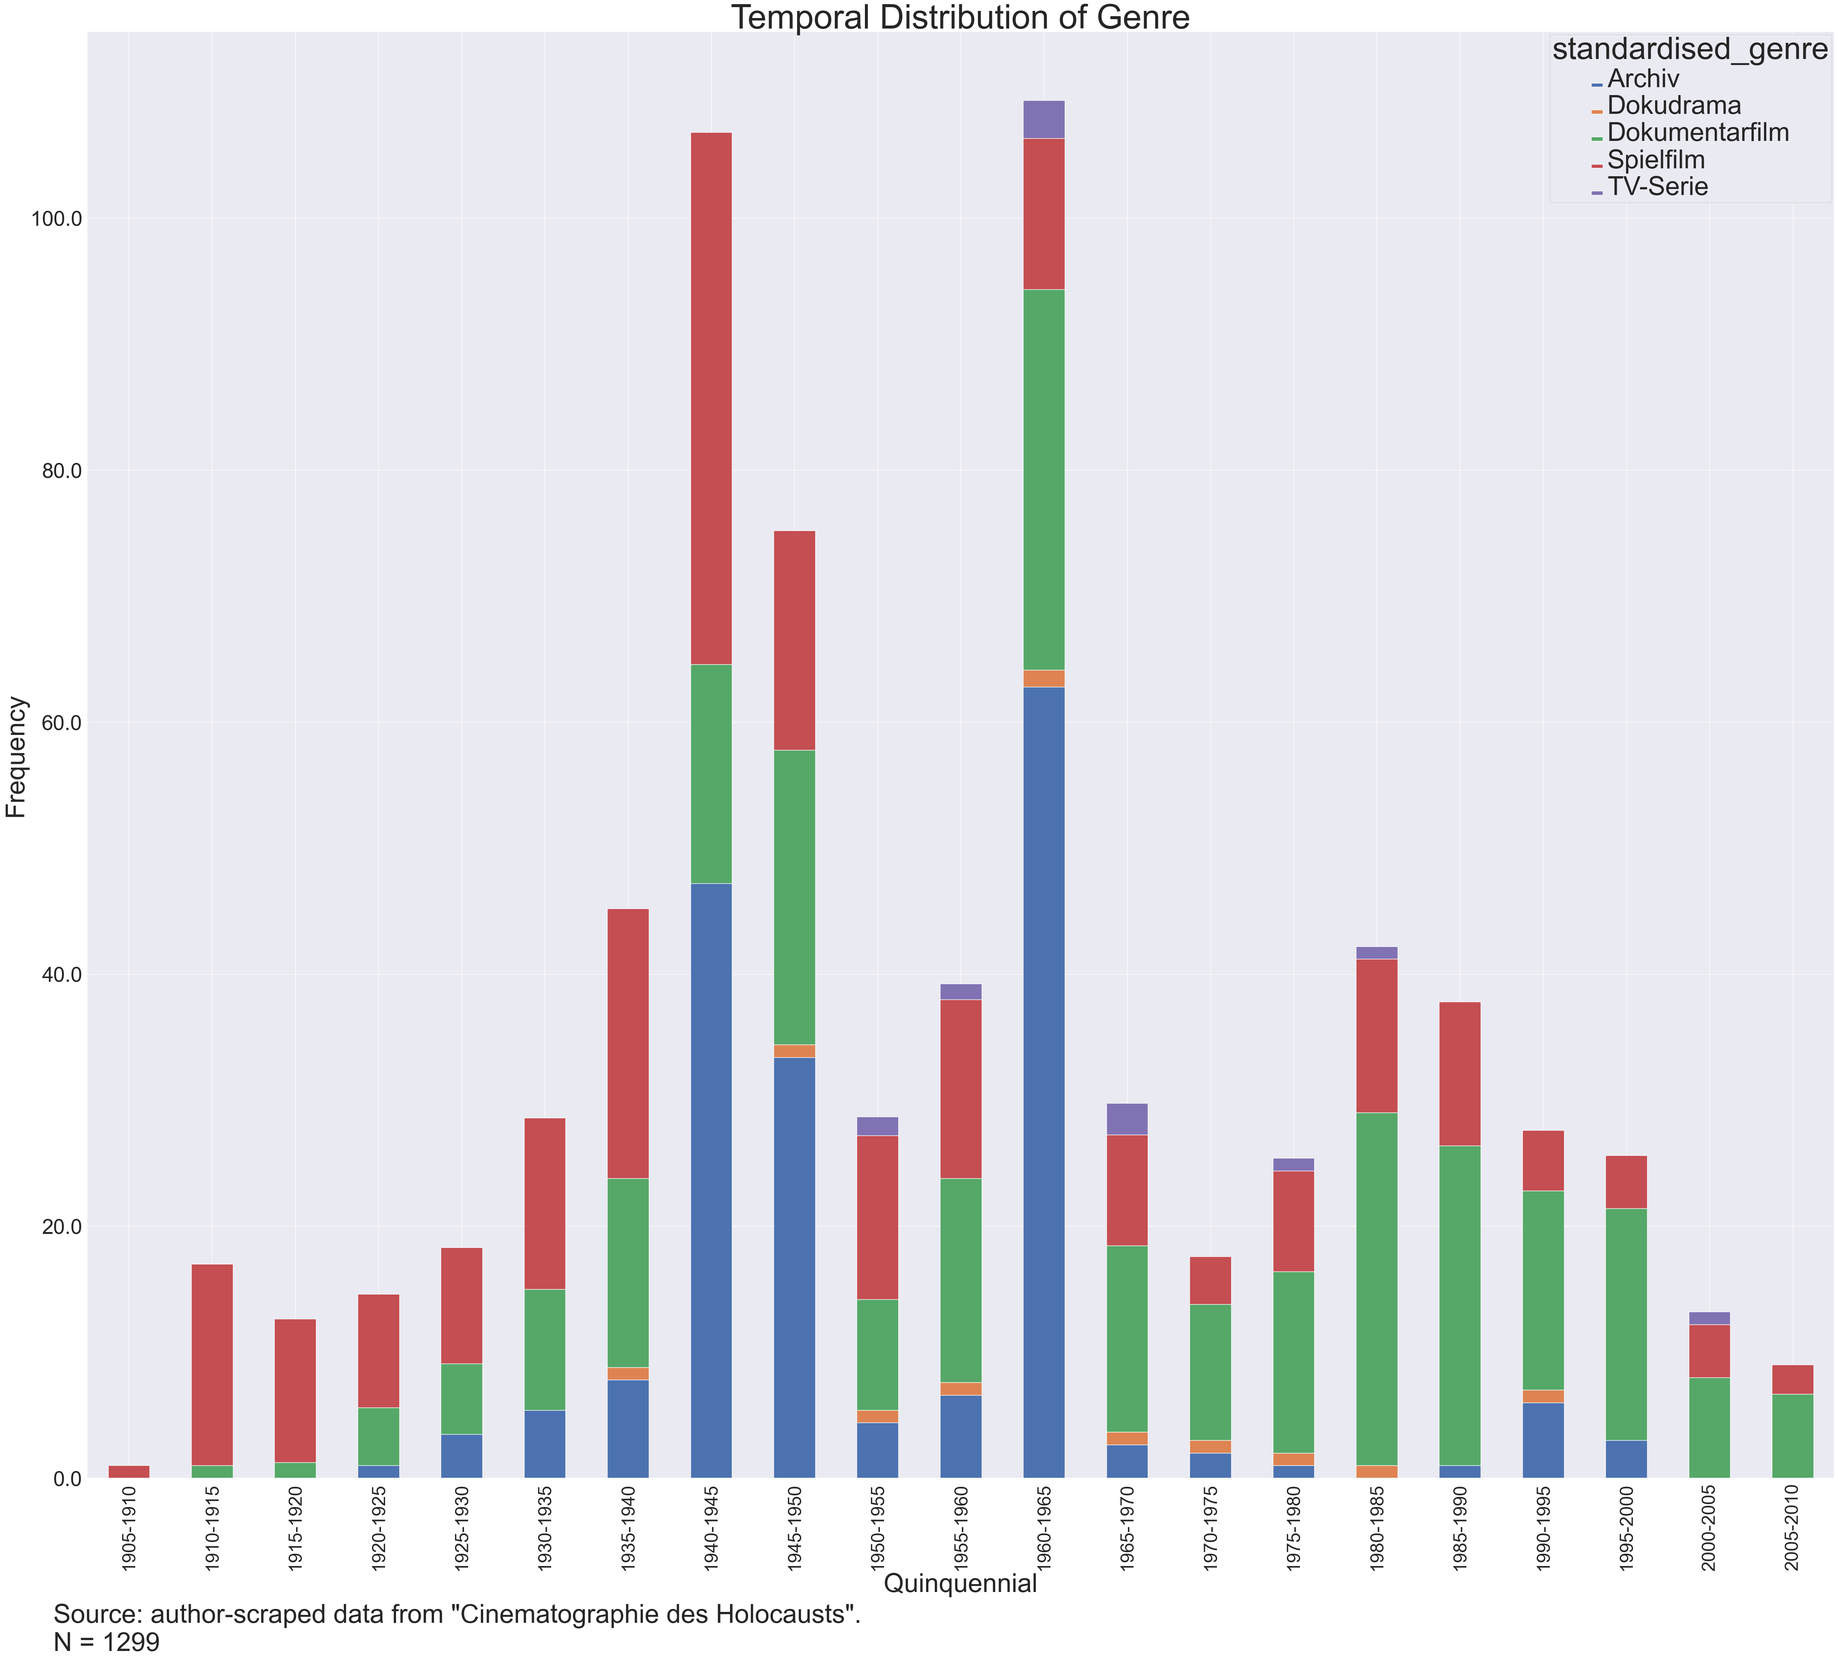
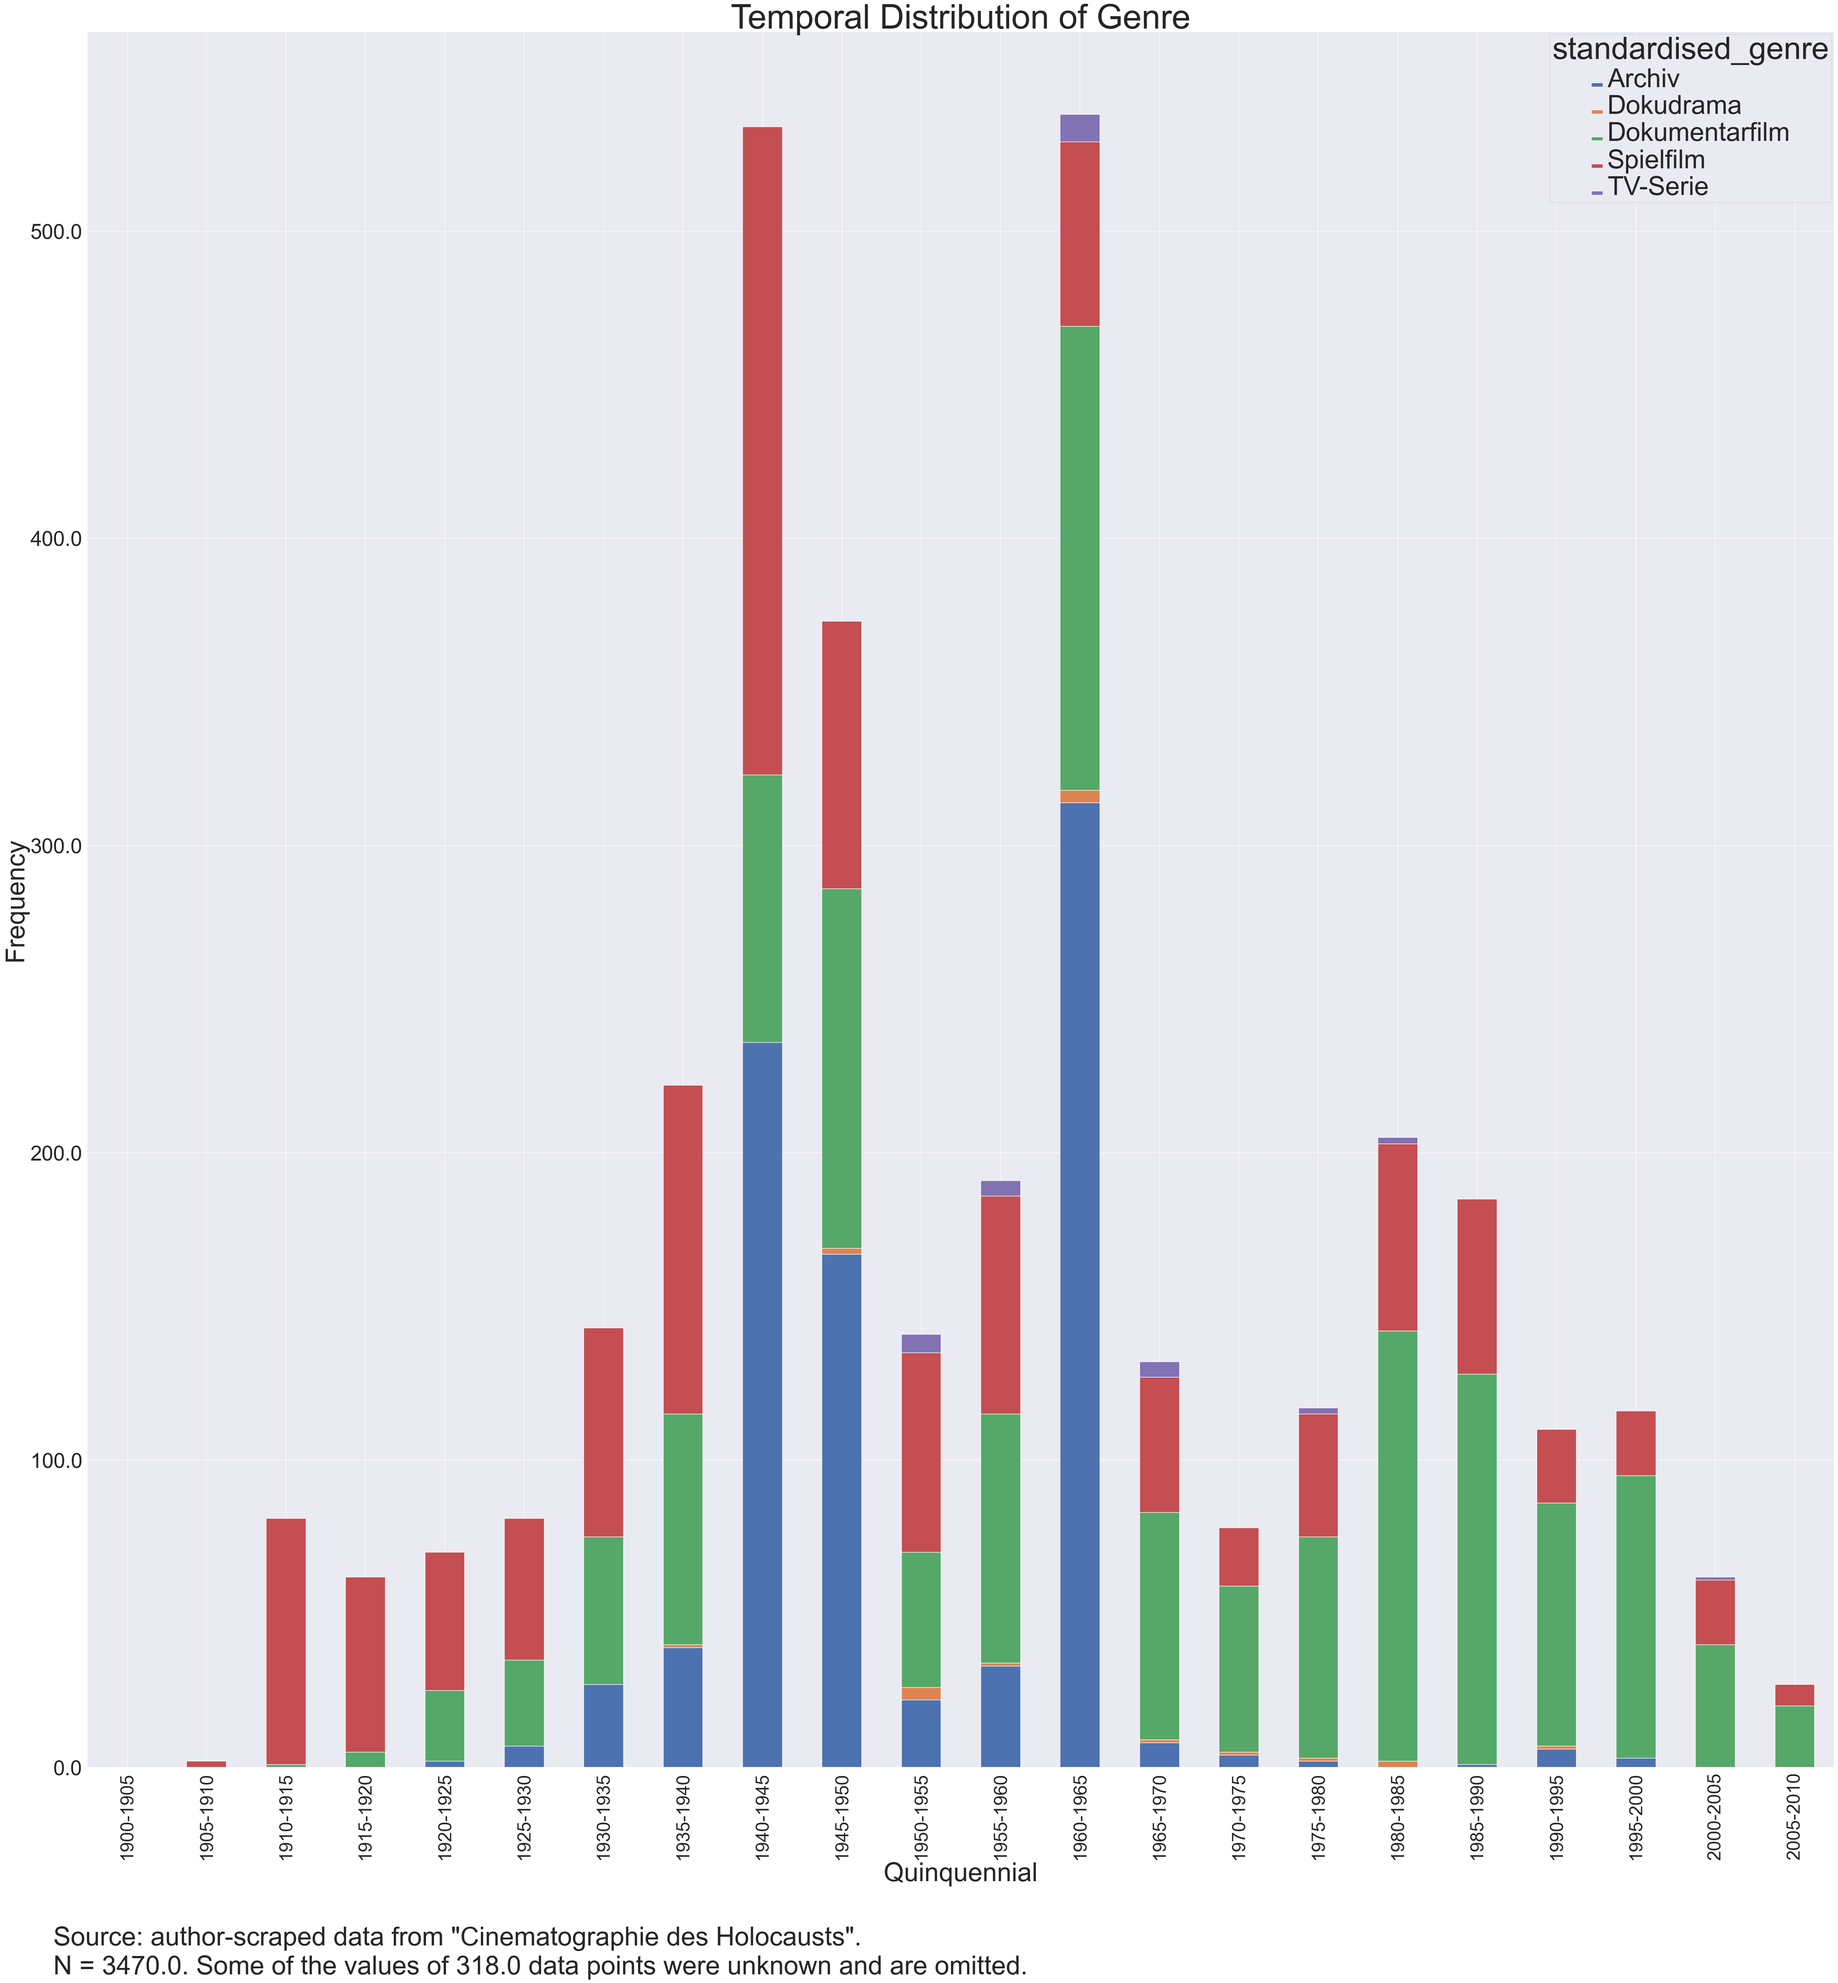
updated graphs and fixed bugs. added the code for graphing and preprocessing

diff --git a/Cinematography of Holocaust graphing.py b/Cinematography of Holocaust graphing.py
@@ -1,0 +1,202 @@
+#!/usr/bin/env python
+# coding: utf-8
+
+# In[50]:
+
+
+import pandas as pd
+import numpy as np
+from matplotlib import pyplot as plt
+import seaborn as sns
+
+
+# In[2]:
+
+
+df = pd.read_csv(r'C:\Users\hwx756\Downloads/cinematographie des holocaust data/Cinematographie_des_Holocaust_standard_engl.tsv', sep='\t')
+
+
+# In[3]:
+
+
+df1 = df.copy()
+y = df1.groupby(df1['date']).size()
+x = sorted(df1['date'].unique())
+
+def freq_graph(df, column, titleword):
+    '''
+    df = pd.DataFrame()
+    column = str
+    titleword = str : what frequency distribution we're plottings
+    displays frequency plot of column
+    '''
+    y = df.groupby(df[column]).size()
+    x = sorted(df[column].unique())
+    sns.set(rc={'figure.figsize':(20,10)})
+    fig, ax = plt.subplots()
+    if int(x[0]) == 0:
+        ax.plot(x[1:], y[1:])
+        plt.figtext(0.1, 0, f'Source: author-scraped data from \"Cinematographie des Holocausts\".\nNote that the dates for {int(y[0])} datapoints were unknown and are not plotted.\nN = {sum(y)}', 
+            wrap=True, horizontalalignment='left', fontsize=14)
+    else: 
+        ax.plot(x,y)
+        plt.figtext(0.05, 0, f'Source: author-scraped data from \"Cinematographie des Holocausts\".\nN = {sum(y)}', 
+            wrap=True, horizontalalignment='left', fontsize=14)
+    ax.set_xticks(list(range(1900,2015,10)))
+    plt.xticks(fontsize=14)
+    plt.yticks(fontsize=14)
+    fig.suptitle(f'Temporal Distribution of {titleword} in\nCinematographie des Holocausts', fontsize=20)
+    plt.ylabel('frequency', fontsize=16)
+    plt.xlabel('decades', fontsize=16)
+    plt.show()
+
+
+# In[4]:
+
+
+docs = df1.loc[(df1['standardised_genre'] == 'Dokumentarfilm'), : ]
+freq_graph(docs, "date", 'Documentaries')
+
+docs = df1.loc[(df1['standardised_genre'] == 'Dokumentarfilm'), : ]
+len(docs)
+
+# docs = df1.loc[(df1['standardised_genre'] == 'Dokumentarfilm'), : ]
+freq_graph(df1, "date", 'Film-Material')
+
+
+# In[15]:
+
+
+print(len(docs))
+print(bars.counts.sum())
+
+
+# In[21]:
+
+
+### uncomment for all production materials
+# bars = df1.groupby('production_country').size().reset_index(name='counts')
+# bars = bars.sort_values('counts', ascending=False)
+### uncomment for docs only
+docs = df1[(df1.standardised_genre == 'Dokumentarfilm')]
+bars = docs.groupby('production_country').size().reset_index(name='counts')
+bars = bars.sort_values('counts', ascending=False)
+
+
+min_count = 0
+title_materials = f'Frequency Distribution of Film-Materials by Production Country in\nCinematographie des Holocausts'
+title_docs = f'Frequency Distribution of Documentaries by Production Country in\nCinematographie des Holocausts'
+
+y = bars.loc[(bars.counts >= min_count), 'counts']
+x = bars.loc[(bars.counts >= min_count), 'production_country']
+l = len(bars.production_country.unique()) - len(x)
+c = sum(bars.counts) - sum(y)
+
+plt.rcParams["figure.figsize"] = (60,60)
+plt.bar(x, y)
+plt.title(title_docs, fontsize=60)
+
+if min_count > 0:
+    plt.xticks(rotation=30, fontsize=30)
+    plt.yticks(fontsize=40)
+    plt.ylabel('frequency',fontsize=50)
+    plt.xlabel('production countries',fontsize=50)
+    plt.figtext(0.1, 0.035, f'Source: author-scraped data from \"Cinematographie des Holocausts\".\nNote that only the {len(x)} countries who produced more than {min_count} films are plotted, thus {l} countries and {c} productions have been omitted.\nN = {sum(y)}', 
+                wrap=True, horizontalalignment='left', fontsize=40)
+else: 
+    plt.xticks(rotation=90, fontsize=25)
+    plt.yticks(fontsize=35)
+    plt.ylabel('frequency',fontsize=50)
+    plt.xlabel('production countries', fontsize=50)
+    plt.figtext(0.1, 0.035, f'Source: author-scraped data from \"Cinematographie des Holocausts\".\nN = {sum(y)}. Some of the values of {len(docs)-sum(y)} data points were unknown and are omitted.', 
+                wrap=True, horizontalalignment='left', fontsize=43)
+plt.show()
+
+
+# In[19]:
+
+
+res = df1.groupby(['date','standardised_genre']).size().reset_index(name='counts')
+zero_drop = len(res.loc[(res['date'] == 0),:])
+res = res.loc[(res['date'] > 0),:] # note that unknown dates were omitted in caption
+genre_drop = len(res.loc[(res['standardised_genre'] != 'Animationsfilm')&\
+                         (res['standardised_genre'] != 'Werbefilm')&\
+                         (res['standardised_genre'] != 'unknown')&\
+                         (res['standardised_genre'] != 'TV-Show'),:])
+res = res.loc[(res['standardised_genre'] != 'Animationsfilm')&\
+                         (res['standardised_genre'] != 'Werbefilm')&\
+                         (res['standardised_genre'] != 'unknown')&\
+                         (res['standardised_genre'] != 'TV-Show'),:]
+
+
+# In[7]:
+
+
+r = res.loc[(res['standardised_genre'] != 'Spielfilm')]
+r.standardised_genre.unique()
+
+
+# In[44]:
+
+
+piv2 = pd.pivot_table(data=res, index=['date'], columns=['standardised_genre'], values='counts')
+piv2
+
+
+# In[46]:
+
+
+piv
+
+
+# In[51]:
+
+
+cut_bins = list(range(1900,2015,5))
+cut_labels = [str(cut_bins[i]) + '-' + str(cut_bins[i+1]) for i in range(len(cut_bins)-1)]
+print(len(cut_bins))
+res['bins'] = pd.cut(res['date'], bins=cut_bins, labels=cut_labels)
+piv = pd.pivot_table(data=res, index=['bins'], columns=['standardised_genre'], values='counts',aggfunc=np.sum)
+y = piv.sum().sum()
+omitted = len(df1)-y
+ax = piv.plot(kind='bar', stacked=True)
+
+
+ax.axes.set_title('Temporal Distribution of Genre',fontsize=65)
+ax.set_xlabel("Quinquennial",fontsize=50)
+ax.set_ylabel("Frequency",fontsize=50)
+yticks, ylabels = plt.yticks()
+xticks, xlabels = plt.xticks()
+plt.setp(ax.get_legend().get_texts(), fontsize='50') # for legend text
+plt.setp(ax.get_legend().get_title(), fontsize='60') # for legend title
+ax.set_yticklabels(yticks, size = 40)
+ax.set_xticklabels(xlabels, size = 35)
+plt.figtext(0.11, 0.02, f'Source: author-scraped data from \"Cinematographie des Holocausts\".\nN = {y}. Some of the values of {omitted} data points were unknown and are omitted.', #change sum(y)??
+                wrap=True, horizontalalignment='left', fontsize=50)
+
+
+# In[60]:
+
+
+piv = pd.pivot_table(data=res, index=['date'], columns=['standardised_genre'], values='counts',aggfunc=np.sum)
+ax = piv.plot(kind='bar', stacked=True)
+y = piv.sum().sum()
+omitted = len(df1)-y
+ax.axes.set_title('Temporal Distribution of Genre',fontsize=65)
+ax.set_xlabel("Years",fontsize=60)
+ax.set_ylabel("Frequency",fontsize=60)
+yticks, ylabels = plt.yticks()
+xticks, xlabels = plt.xticks()
+plt.setp(ax.get_legend().get_texts(), fontsize='50') # for legend text
+plt.setp(ax.get_legend().get_title(), fontsize='60') # for legend title
+ax.set_yticklabels(yticks, size = 50)
+ax.set_xticklabels(xlabels, size = 35)
+plt.figtext(0.09, 0.06, f'Source: author-scraped data from \"Cinematographie des Holocausts\".\nN = {int(y)}. Some of the values of {int(omitted)} data points were unknown and are omitted.', 
+                wrap=True, horizontalalignment='left', fontsize=55)
+
+
+# In[ ]:
+
+
+
+

diff --git a/Cinematography of Holocaust processing.py b/Cinematography of Holocaust processing.py
@@ -1,0 +1,182 @@
+#!/usr/bin/env python
+# coding: utf-8
+
+# In[1]:
+
+
+import pandas as pd
+
+
+# In[ ]:
+
+
+# preprocessing
+with open(r'C:\Users\hwx756\Downloads/Cinematographie_des_Holocaust.pickle', 'rb') as handle:
+    b = pickle.load(handle)
+print(len(b))
+
+unique_cols = {'ID:', 'Produktionsjahr:', 'ODat:','O-Titel:','D-Titel:','A-Titel:', 'Produktionsland:','Pro:','ProdStabDar:', 
+               'OCredits:','Länge/Dauer:', 'Regie:','UAng:',  'Kopie:', 'ZAng:', 'Video:',     
+               'Auff/TV:', 'Anm:', 'Abstract:',  'Inhalt:', 'Gattung:',   'Format:',  'Filmo:','Biblio:','Sonstiges:'}
+df = pd.DataFrame(columns=unique_cols)
+for dct in b:
+    df = df.append(dct,ignore_index=True)
+
+df.drop_duplicates(subset=['ID:'],inplace=True)
+len(df)
+
+df1.to_csv(r'C:\Users\hwx756\Downloads/Cinematographie_des_Holocaust_standard_engl.tsv', sep='\t', index=False)
+
+
+# In[ ]:
+
+
+def standardise_dates(cell):
+    out = str(cell).split('-')[0] # return the first in any potential date range (usually series are counted by start date)
+    if "??" in out or out.isalpha():
+        return 0 # for results like '19??' or "DE" which are useless
+    if "/" in out:
+        return int(out.split('/')[0])
+    else:
+        out = out.replace(' ', '').replace('(?)', '')
+        if len(out) == 4:
+            return int(out.replace('?', '0')) # replace questionmarks with 0
+        else: return int(out.replace('?', '')[:4])
+        
+        
+def standardise_countrycodes(cell):
+    if not isinstance(cell, str) or cell.isnumeric():
+        return 'unknown'
+    else:
+        val = re.sub('P9 /|\[P9\]|/ P9|[ ]', '', cell).strip()
+        if '?' in val and val != 'IL?' or val == '':
+            return 'unknown'
+        else: 
+            val = val.replace('?', '')
+            val = '/'.join(sorted(val.split('/'))).strip() # split and sort alphabetically, so we have consistent counting
+            return val
+
+def standardise_length_duration(cell):
+    l = None
+    d = None
+    if isinstance(cell, str):
+        vals = cell.split('/')
+        for item in vals:
+            if 'm' in item:
+                l = item.replace(' ', '')
+            elif '\'' in item:
+                d = item.replace(' ', '').replace('\'\'', '').replace('\'', ':')
+                if d.endswith(':'):
+                    d += '00'
+    return l, d
+
+def standardise_genre(cell):
+    if not isinstance(cell, str):
+        return 'unknown'
+    map_dict = {'TV-Dokumentation': 'Dokumentarfilm', 'TV-Film':'Spielfilm',
+       'Spielfilm / Dokumentarfilm':'unknown', 'Spielfim':'Spielfilm',
+       'Filmsketch mit Live-Auftritten':'TV-Show', 'Wochenschau':'Archiv',
+       'Dokumentarfilm / Kompilationsfilm': 'Dokumentarfilm',
+       'Kurz-Dokumentarfilm / Filmmaterial':'Archiv',
+       'Dokumentarfilm mit Spielszenen':'Dokumentarfilm', 'Video':'Archiv',
+       'Dokumentarfilm / Filmmaterial':'Archiv', 'Newsreel':'Archiv',
+       'Kurz-Dokumentarfilm / Amateurfilm':'Archiv',
+       'Kurz-Dokumentarfilm mit Spielszenen':'Dokumentarfilm', 'TV-Spielfilm':'Spielfilm',
+       'Puppen-Animationsfilm': 'Animationsfilm', 'Amateurfilm / Dokumentarfilm':'Archiv',
+       'Amateurfilm / Kurz-Dokumentarfilm':'Archiv',
+       'Kurz-Dokumentarfilm / home movie': "Archiv", 'TV-Spiel':'Spielfilm', 'Dokumentation':'Dokumentarfilm',
+       'Amateurfilm':'Archiv', 'Dokumentarfilm / Amateurfilm':'Archiv',
+       'Kurz-Dokumentarfilm /  Wochenschau':'Archiv', 'Filmmaterial':'Archiv',
+       'Spielfilm / Projekt':'Spielfilm', 
+       'Kurz-Dokumentarfilm / Amateurfilmmaterial':'Archiv',
+       'TV-Dokumentarfilm mit Spielszenen':"Dokumentarfilm", 'Neewsreel':'Archiv', 'TV-Newsreel':'Archiv',
+       'Episodenfilm':'Spielfilm', 'TV-Drama':'Spielfilm', 'Kurz-Dokumentarfilm / Episodenfilm': 'Dokumentarfilm',
+       'TV- Serie':'TV-Serie', 'TV- Dokumentation': 'Dokumentarfilm', 'Dokumentarspiel': 'Dokudrama',
+       'TV-Tagesschau':'Archiv', 'dokumentarfilm':'Dokumentarfilm', 'TV-Dokumentarfilm': 'Dokumentarfilm',
+       'Dokumentarfilm mit Spielszenen\t\tDokumentarfilm mit Spielszenen':'Dokumentarfilm',
+       'Fernsehspiel':'Spielfilm', "105'":'unknown', 'Kurz-Dokumentarfilm':'Dokumentarfilm', 
+        'Kurzfilm': 'Spielfilm','Kurz-Spielfilm':'Spielfilm', 'Kurz-Animationsfilm':'Animationsfilm',
+        'Experimentalfilm':'Spielfilm'}
+    if cell in map_dict.keys():
+        return map_dict.get(cell)
+    else: return cell
+df1['standardised_genre'] = df1.genre.apply(standardise_genre)
+df1['standardised_genre'].unique()
+
+
+# In[ ]:
+
+
+# let's drop and rename columns
+df1.drop(labels=['ZAng:', 'Auff/TV:' , 'UAng:'],axis=1, inplace=True)
+dct = {'Filmo:': 'film_records', 'Produktionsland:':'production_country', 'O-Titel:':'original_title', 
+       'Kopie:':'copy', 'Länge/Dauer:':'length/duration',
+       'D-Titel:':'german_title', 'ODat:':'original_date', 'Gattung:':'genre', 'ID:': 'ID', 
+       'Format:':'format','Regie:':'director',
+       'A-Titel:':'other_title', 'Anm:':'notes', 'Inhalt:':'content', 'Produktionsjahr:':'date', 'Pro:':'producer',
+       'ProdStabDar:' :'further_production_info', 'OCredits:':'credits', 'Sonstiges:':'other', 'Biblio:':'biblio',
+       'Video:': 'video', 'Abstract:': 'abstract'}
+df1.rename(columns=dct, inplace=True)
+df1
+
+
+# In[ ]:
+
+
+df1['length'], df1['duration'] = zip(*df1['length/duration'].map(standardise_length_duration))
+
+df1.drop(labels=['length/duration'],axis=1, inplace=True)
+dct = {'length': 'physical_length_meters'}
+df1.rename(columns=dct, inplace=True)
+
+df1 = pd.read_csv(r'C:\Users\hwx756\Downloads/Cinematographie_des_Holocaust_standard_engl.tsv', sep='\t')
+
+ar = df1.production_country.unique()
+for e in ar:
+    print('before ',e)
+    print('after ' , re.sub('P9 /|\[P9\]|/ P9|[ ]', '', str(e)).strip(), '\n')
+
+bars = df1.groupby('production_country').size().reset_index()
+# df1.loc[(df1.production_country == bars.production_country) & df1.]
+
+docs = df1[(df1.standardised_genre == 'Dokumentarfilm')]
+len(docs)
+
+
+# In[ ]:
+
+
+def rep(cell):
+    if isinstance(cell, str):
+#         return int(re.sub(':[0-9][0-9]', '', str(cell)).replace('(Teil2)', '').replace('121oder123', '121'))
+        vals = cell.split(':')[0].replace('(Teil2)', '').replace('121oder123', '121')\
+                .replace('3Teile,jederTeil44', '132').replace('(ZweiVersionen)40', '40')\
+                .replace('(VierTeileà60', '240').replace('30(Beitrag3);21(Beitrag4);1', '51')\
+                .replace('ca.60', '')
+#         print(vals)
+        vals = vals.split('(')[0]
+        vals = vals.split(',')[0]
+        vals = vals.split('’')[0]
+        if vals: return int(vals)
+        else: return 0
+    else: return 0
+df1['duration_rounddown_min'] = df1.duration.apply(rep)
+
+
+# In[ ]:
+
+
+
+
+
+# In[ ]:
+
+
+df1.to_csv(r'C:\Users\hwx756\Downloads/Cinematographie_des_Holocaust_standard_engl.tsv', sep='\t', index=False)
+
+
+# In[ ]:
+
+
+
+
